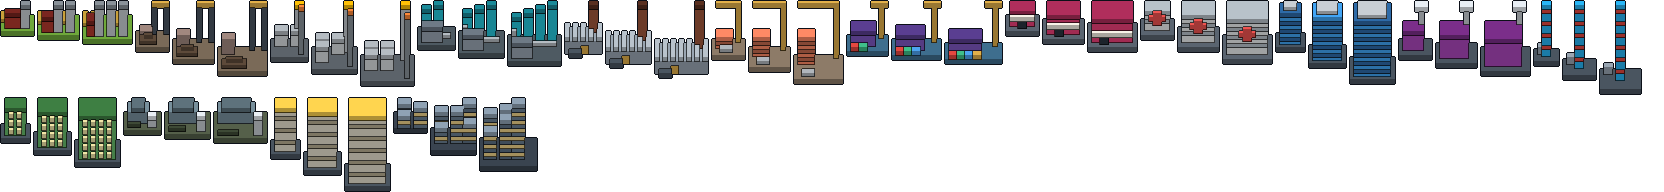
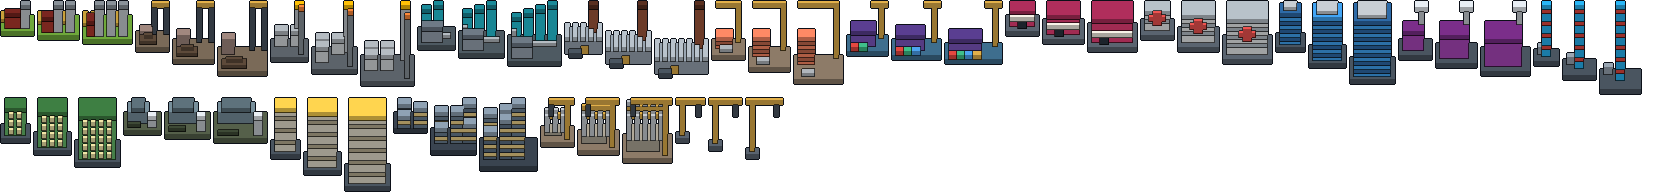
feat(compose): the map tells the story
Building sites, cranes for retooling, dark mothballed plants and a gold
flag on fresh takeovers, from each plant's status and owner; cranes by the
cities in a boom and dimmed blocks in a slowdown. Trucks and trains keep
off the lakes.

Changed region(s): [[0.3125, 0.5, 0.4688, 0.875]]

diff --git a/compose/shared/src/jvmShared/kotlin/net/lakesidegames/corporatewarfare/MapScreen.kt b/compose/shared/src/jvmShared/kotlin/net/lakesidegames/corporatewarfare/MapScreen.kt
@@ -197,6 +197,10 @@ fun WorldMapView(
     var rippleAt by remember { mutableDoubleStateOf(-10.0) }
     LaunchedEffect(week) { if (week != null) rippleAt = MapClock.now() }
     val fps = remember { FpsMeter() }
+    // Divisions the player has just taken over carry a flag for six weeks: a plant that was a
+    // rival's last week and is the player's now.
+    val takeovers = remember { TakeoverLog() }
+    val acquired = remember(store.mapPlants, store.overview?.tick) { takeovers.update(store.mapPlants, store.overview?.tick?.toInt() ?: 0) }
     val heightsNow by rememberUpdatedState(heights)
 
     fun current(): MapCamera? = camera ?: map?.let { if (viewSize.width > 0) MapCamera.scenario(viewSize, it) else null }
@@ -321,7 +325,7 @@ fun WorldMapView(
                     map, camera ?: MapCamera.scenario(size, map), layerTint(layer), shaded, selected, store.mapDivisions, measurer,
                     lanes = store.lanes, freightLayer = layer == MapLayer.Freight, pickedLane = pickedLane,
                     geometry = geometry, graphics = graphics, pitch = pitch, sun = sun, heights = heights, phase = MapPhase.Structures,
-                    plants = store.mapPlants,
+                    plants = store.mapPlants, economyPhase = store.economy?.phase, acquired = acquired,
                 )
             }
             Canvas(Modifier.fillMaxSize()) {
@@ -467,6 +471,8 @@ internal fun DrawScope.drawWorldMap(
     phase: MapPhase = MapPhase.All,
     plants: List<uniffi.cw_ffi.MapPlantDto> = emptyList(),
     week: Int = 28,
+    economyPhase: String? = null,
+    acquired: Set<String> = emptySet(),
 ) {
     MapProfiler.start()
     val detailLevel = graphics.detail
@@ -603,23 +609,46 @@ internal fun DrawScope.drawWorldMap(
             // Each big city on screen is a voxel city block sized by its population, a step smaller
             // than the player's buildings so those stay the stars.
             val voxelScale = (Voxels.scale(g.scale, density) - 1).coerceAtLeast(1)
-            g.cityBlocks(ground).forEach { block ->
+            // The economy shows in the cities: cranes rise in a boom, lights go out in a recession.
+            val dim = if (economyPhase == "recession" || economyPhase == "slowdown") Voxels.Dark else null
+            g.cityBlocks(ground).forEachIndexed { i, block ->
                 val base = p.lift(block.gx.toDouble(), block.gy.toDouble(), block.floor)
-                val top = with(Voxels) { drawBuilding("city", block.plants, base, voxelScale) }
+                val top = with(Voxels) { drawBuilding("city", block.plants, base, voxelScale, dim) }
                 if (top != null) cityTops[block.name] = top
+                if ((economyPhase == "boom" || economyPhase == "expansion" && i % 3 == 0) && i < 12) {
+                    with(Voxels) { drawBuilding("crane", if (economyPhase == "boom") 8 else 2, base + Offset(10f * voxelScale, 2f), voxelScale) }
+                }
             }
         }
         if (graphics.buildings > 0 && g.closeUp && t > 0.5) {
             // Rivals' plants first, a size smaller and muted, so the player's own stand over them.
             val rivalScale = (Voxels.scale(g.scale, density) - 1).coerceAtLeast(1)
+            val rivalStatuses = plantStatuses(plants.filter { !it.player }, byFirm = true)
             g.rivalBuildings(plants, ground).forEach { b ->
-                with(Voxels) { drawBuilding(b.sector, b.plants, p.lift(b.gx.toDouble(), b.gy.toDouble(), b.floor), rivalScale, Voxels.Muted) }
+                val base = p.lift(b.gx.toDouble(), b.gy.toDouble(), b.floor)
+                when (rivalStatuses[b.key]) {
+                    PlantState.Site -> with(Voxels) { drawBuilding("site", b.plants, base, rivalScale, Voxels.Muted) }
+                    PlantState.Mothballed -> with(Voxels) { drawBuilding(b.sector, b.plants, base, rivalScale, Voxels.Dark) }
+                    else -> with(Voxels) { drawBuilding(b.sector, b.plants, base, rivalScale, Voxels.Muted) }
+                }
             }
             val voxelScale = Voxels.scale(g.scale, density)
+            val statuses = plantStatuses(plants.filter { it.player })
             g.buildings(divisions, ground).forEach { b ->
-                // Each division is a voxel building for its industry; a plain box if the sprite is missing.
+                // Each division is a voxel building for its industry, shown as it stands: a building
+                // site while its plants go up, a crane beside it while one is added or retooled, dark
+                // when mothballed, a gold flag when just taken over. A plain box if the sprite is missing.
                 val base = p.lift(b.gx.toDouble(), b.gy.toDouble(), b.floor)
-                val spriteTop = with(Voxels) { drawBuilding(b.sector, b.plants, base, voxelScale) }
+                val state = statuses[b.key] ?: PlantState.Running
+                val spriteTop = with(Voxels) {
+                    when (state) {
+                        PlantState.Site -> drawBuilding("site", b.plants, base, voxelScale)
+                        PlantState.Mothballed -> drawBuilding(b.sector, b.plants, base, voxelScale, Voxels.Dark)
+                        else -> drawBuilding(b.sector, b.plants, base, voxelScale)
+                    }
+                }
+                if (state == PlantState.Growing) with(Voxels) { drawBuilding("crane", 2, base + Offset(12f * voxelScale, 3f), voxelScale) }
+                if (b.key in acquired && spriteTop != null) drawFlag(Offset(base.x + 6f * voxelScale, spriteTop - 2f), voxelScale)
                 val topAt = if (spriteTop != null) Offset(base.x, spriteTop) else {
                     val windows = if (nightNow && light.facing(b.lon, b.lat) < 0) 0.85f else if (graphics.lighting == 2) 0.30f else 0f
                     drawBox(p, b.gx, b.gy, b.half, b.floor, b.top, Sectors.color(b.sector), windows, Palette.gold.copy(alpha = 0.9f))
@@ -670,6 +699,53 @@ internal fun DrawScope.drawWorldMap(
         }
     }
     MapProfiler.mark("labels+vignette")
+}
+
+/** Remembers who owned each plant, so a takeover can be marked on the map for a while. */
+internal class TakeoverLog {
+    private val owner = HashMap<ULong, Boolean>()
+    private val since = HashMap<String, Int>()
+
+    fun update(plants: List<uniffi.cw_ffi.MapPlantDto>, week: Int): Set<String> {
+        for (plant in plants) {
+            val was = owner[plant.handle]
+            if (was == false && plant.player) since["${plant.region}/${plant.industry}"] = week
+            owner[plant.handle] = plant.player
+        }
+        since.entries.removeAll { week - it.value > 6 }
+        return since.keys.toSet()
+    }
+}
+
+/** How a division's plants stand, for the map. */
+internal enum class PlantState { Site, Growing, Running, Mothballed }
+
+/**
+ * Each division's state from its plants, keyed region/industry (and /firm for rivals): a building
+ * site while every plant is still going up, growing while some are built or retooled, mothballed
+ * when every plant is, running otherwise.
+ */
+internal fun plantStatuses(plants: List<uniffi.cw_ffi.MapPlantDto>, byFirm: Boolean = false): Map<String, PlantState> =
+    plants.groupBy { if (byFirm) "${it.region}/${it.industry}/${it.firm}" else "${it.region}/${it.industry}" }.mapValues { (_, items) ->
+        val building = items.count { it.status.startsWith("Building") }
+        val retooling = items.count { it.status.startsWith("Retooling") }
+        val mothballed = items.count { it.status.startsWith("Mothballed") }
+        when {
+            building == items.size -> PlantState.Site
+            mothballed == items.size -> PlantState.Mothballed
+            building + retooling > 0 -> PlantState.Growing
+            else -> PlantState.Running
+        }
+    }
+
+/** A small gold pennant on a pole, planted on a building the player has just taken over. */
+private fun DrawScope.drawFlag(at: Offset, scale: Int) {
+    val k = scale.toFloat()
+    drawRect(Palette.ink, Offset(at.x - k, at.y - 12f * k), Size(2f * k, 12f * k))
+    drawRect(Color(0xFFC8CED4), Offset(at.x - k / 2, at.y - 12f * k), Size(k, 12f * k))
+    val pennant = Path().apply { moveTo(at.x + k / 2, at.y - 12f * k); lineTo(at.x + 8f * k, at.y - 9.5f * k); lineTo(at.x + k / 2, at.y - 7f * k); close() }
+    drawPath(pennant, Palette.gold)
+    drawPath(pennant, Palette.ink, style = Stroke(1f))
 }
 
 /** Which part of the still map to draw: the ground, the structures over the traffic, or both. */

diff --git a/compose/shared/src/jvmShared/kotlin/net/lakesidegames/corporatewarfare/MapScene.kt b/compose/shared/src/jvmShared/kotlin/net/lakesidegames/corporatewarfare/MapScene.kt
@@ -537,7 +537,7 @@ internal class OverlayGeometry(
 
 internal class LaneTrack(
     val a: Offset, val b: Offset, val mode: String, val weight: Float, val length: Float, val seed: Float, val km: Float, val mine: Boolean = false,
-    /** For sea lanes, whether each of [WaterSamples] points from a to b is over water, so ships never sail over land. */
+    /** Whether each of [WaterSamples] points from a to b is over water, so ships never sail over land and trucks never drive on a lake. */
     val water: BooleanArray? = null,
 )
 
@@ -762,8 +762,10 @@ private fun laneVehicles(lane: LaneTrack, f: Float, forward: Boolean, p: MapProj
     val dir = ground((f + sign * step).coerceIn(0f, 1f)) - ground((f - sign * step).coerceIn(0f, 1f))
     if (dir.getDistance() < 1e-3f) return
     val u = dir / dir.getDistance()
+    // Trucks and trains keep to land: a straight lane between two hubs can cross a lake.
+    val wet = lane.water?.get((f * (WaterSamples - 1)).roundToInt()) == true
     when (lane.mode) {
-        "rail" -> {
+        "rail" -> if (!wet) {
             // Wagons trail the locomotive along the track, spaced by a vehicle's length on the ground.
             val gap = 14f * scale / lane.length.coerceAtLeast(1f)
             out += VehicleSpot("loco", lane.mine, at, dir)
@@ -776,7 +778,7 @@ private fun laneVehicles(lane: LaneTrack, f: Float, forward: Boolean, p: MapProj
         "sea" -> if (lane.water?.get((f * (WaterSamples - 1)).roundToInt()) != false) {
             out += VehicleSpot("ship", lane.mine, at + Offset(-u.y, u.x) * 5f * sign, dir)
         }
-        else -> out += VehicleSpot("truck", lane.mine, at + Offset(-u.y, u.x) * 2.5f * sign, dir)
+        else -> if (!wet) out += VehicleSpot("truck", lane.mine, at + Offset(-u.y, u.x) * 2.5f * sign, dir)
     }
 }
 
@@ -852,7 +854,7 @@ internal fun laneTracks(map: WorldMap, p: MapProjection, lanes: List<LaneDto>, c
         val length = (b - a).getDistance().coerceAtLeast(8f)
         LaneTrack(
             a, b, lane.modeId, (lane.capacityLots + lane.outsideLots).toFloat() / top, length, (stableHash(lane.a + lane.b) % 1000) / 1000f,
-            lane.km.toFloat().coerceAtLeast(20f), laneIsMine(lane), if (lane.modeId == "sea") waterAlong(map, lane.a, lane.b) else null,
+            lane.km.toFloat().coerceAtLeast(20f), laneIsMine(lane), waterAlong(map, lane.a, lane.b),
         )
     }
 }

diff --git a/compose/shared/src/desktopTest/kotlin/net/lakesidegames/corporatewarfare/GraphicsRenderTest.kt b/compose/shared/src/desktopTest/kotlin/net/lakesidegames/corporatewarfare/GraphicsRenderTest.kt
@@ -55,6 +55,13 @@ class GraphicsRenderTest {
         strategy = "standard", blocks = blocks, status = "running", utilisationBps = 8000,
     )
 
+    // The player's plants as the map reads them: one division still going up, one being retooled.
+    private val own = listOf(
+        plant(1uL, "OH-CEN", "retail", 3u).copy(player = true, status = "Building"),
+        plant(1uL, "MI-DET", "energy", 9u).copy(player = true, status = "Retooling { until: Tick(40) }"),
+        plant(1uL, "OH-CEN", "manufacturing", 6u).copy(player = true, status = "Operating"),
+    )
+
     private val rivals = listOf(
         plant(7uL, "MI-DET", "manufacturing", 8u), plant(8uL, "MI-DET", "logistics", 3u), plant(9uL, "OH-CEN", "retail", 5u),
         plant(7uL, "OH-CEN", "chemical_industries", 4u), plant(10uL, "PA-WES", "extraction", 6u), plant(11uL, "OH-NE", "healthcare", 3u),
@@ -88,7 +95,7 @@ class GraphicsRenderTest {
                         fun still(phase: MapPhase) = drawWorldMap(
                             map, camera, Palette.gold, shading, "MI-DET", divisions, measurer, lanes = lanes, freightLayer = false,
                             geometry = geometry, graphics = graphics, sun = if (graphics.dayNight) sun else null, phase = phase,
-                            plants = rivals,
+                            plants = rivals + own, economyPhase = "boom", acquired = setOf("PA-WES/technology"),
                         )
                         still(MapPhase.Ground)
                         val g = geometry.of(map, camera, size, graphics.detail, graphics.pitch)

diff --git a/compose/shared/src/jvmShared/kotlin/net/lakesidegames/corporatewarfare/Voxels.kt b/compose/shared/src/jvmShared/kotlin/net/lakesidegames/corporatewarfare/Voxels.kt
@@ -57,6 +57,14 @@ internal object Voxels {
         },
     )
 
+    /** Mothballed plants and a city in recession: dark, the colour nearly gone. */
+    val Dark: ColorFilter = ColorFilter.colorMatrix(
+        ColorMatrix().apply {
+            setToSaturation(0.15f)
+            timesAssign(ColorMatrix(floatArrayOf(0.5f, 0f, 0f, 0f, 0f, 0f, 0.52f, 0f, 0f, 0f, 0f, 0f, 0.58f, 0f, 0f, 0f, 0f, 0f, 1f, 0f)))
+        },
+    )
+
     fun DrawScope.drawBuilding(sector: String, plants: Int, ground: Offset, scale: Int, filter: ColorFilter? = null): Float? {
         val f = frame(sector, size(plants), scale) ?: return null
         val image = Images.load("voxels-$scale") ?: return null

diff --git a/tools/voxel_sprites.py b/tools/voxel_sprites.py
@@ -232,10 +232,33 @@ def city(s):
     return m
 
 
+def site(s):
+    """A plant going up: the base poured, a scaffold of poles and planks, and a tower crane."""
+    w = 8 + 2 * s
+    m = Model().box(0, 0, 0, w, w, 1, "#8D7B68")
+    m.box(1, 1, 1, w - 3, w - 3, 2 + s, "#B0A898")
+    for x in range(1, w - 2, 2):
+        for y in (1, w - 4):
+            m.box(x, y, 2 + s, x + 1, y + 1, 6 + 2 * s, "#C8CED4")
+    for z in range(4 + s, 6 + 2 * s, 2):
+        m.box(1, 1, z, w - 2, 2, z + 1, "#E2B04A")
+    m.box(w - 2, w - 2, 1, w - 1, w - 1, 10 + 2 * s, "#E2B04A").box(2, w - 2, 10 + 2 * s, w, w - 1, 11 + 2 * s, "#E2B04A")
+    m.box(2, w - 2, 7 + 2 * s, 3, w - 1, 10 + 2 * s, "#4A5560")
+    return m
+
+
+def crane(s):
+    """A tower crane alone, for a city that is booming or a plant being retooled."""
+    m = Model().box(0, 0, 0, 3, 3, 1, "#5A6470")
+    m.box(1, 1, 1, 2, 2, 9 + 2 * s, "#E2B04A").box(0, 1, 9 + 2 * s, 7 + s, 2, 10 + 2 * s, "#E2B04A")
+    m.box(5 + s, 1, 6 + 2 * s, 6 + s, 2, 9 + 2 * s, "#4A5560")
+    return m
+
+
 MODELS = {
     f.__name__: f for f in (
         agriculture, extraction, energy, chemical_industries, manufacturing, construction, logistics,
-        retail, healthcare, technology, media, telecommunications, real_estate, defense, financial, city,
+        retail, healthcare, technology, media, telecommunications, real_estate, defense, financial, city, site, crane,
     )
 }
 

diff --git a/CHANGELOG.md b/CHANGELOG.md
@@ -13,6 +13,10 @@ heading.
 
 ### Added
 
+- The map tells the story: a plant still going up shows as a building site with scaffold and a
+  crane, a division adding or retooling plants has a crane beside it, a mothballed one goes dark,
+  and one you have just taken over flies a gold flag for six weeks. Rivals' sites and closures show
+  the same way. In a boom cranes rise beside the cities; in a slowdown or recession their lights dim.
 - The real Earth under the map: NASA's Blue Marble imagery (public domain) on the globe, the menu and
   the scenario, sharp close up. The seasons follow the game's calendar: a snow line that creeps south
   in winter, autumn colour, and browner winters in the mid-latitudes, half a year apart in the south.
